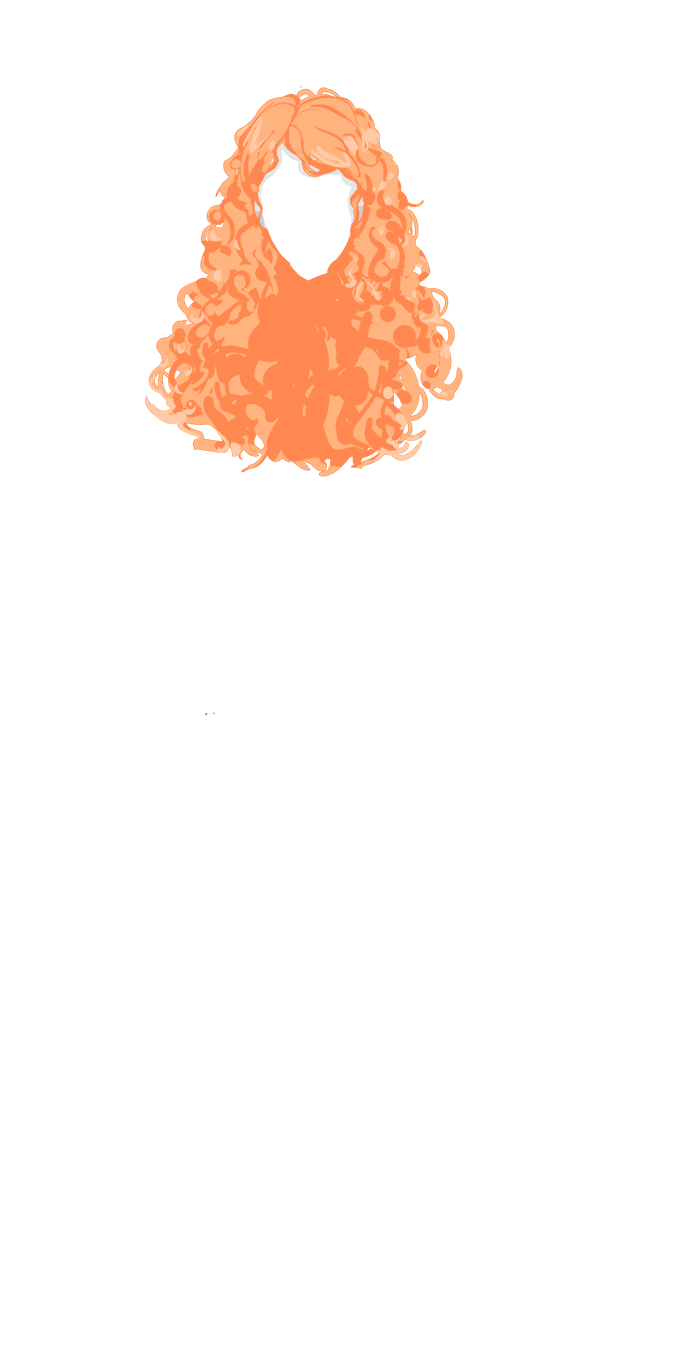
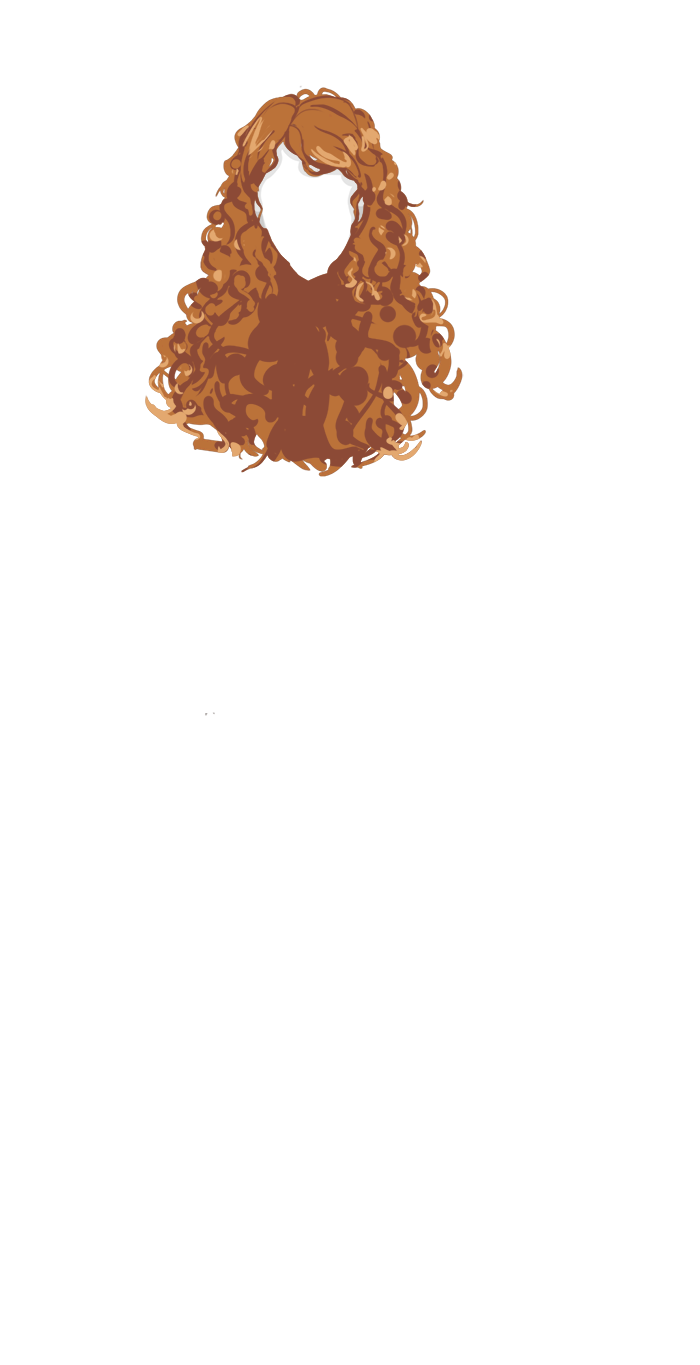
more stuffs

Changed region(s): [[0.21, 0.0615, 0.66, 0.3692]]

diff --git a/client/src/assets/data.ts b/client/src/assets/data.ts
@@ -19,6 +19,7 @@ export const hairstyleData: StylesAndColorsData = {
       colors: [
         "platinum",
         "blonde",
+        "caramel",
         "brown",
         "black",
         "ginger",
@@ -34,6 +35,7 @@ export const hairstyleData: StylesAndColorsData = {
       colors: [
         "platinum",
         "blonde",
+        "caramel",
         "brown",
         "black",
         "ginger",
@@ -49,6 +51,7 @@ export const hairstyleData: StylesAndColorsData = {
       colors: [
         "platinum",
         "blonde",
+        "caramel",
         "brown",
         "black",
         "ginger",
@@ -64,6 +67,7 @@ export const hairstyleData: StylesAndColorsData = {
       colors: [
         "platinum",
         "blonde",
+        "caramel",
         "brown",
         "black",
         "ginger",
@@ -79,6 +83,7 @@ export const hairstyleData: StylesAndColorsData = {
       colors: [
         "platinum",
         "blonde",
+        "caramel",
         "brown",
         "black",
         "ginger",
@@ -95,6 +100,7 @@ export const hairstyleData: StylesAndColorsData = {
       colors: [
         "platinum",
         "blonde",
+        "caramel",
         "brown",
         "black",
         "ginger",
